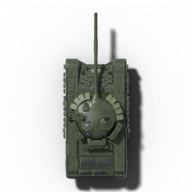
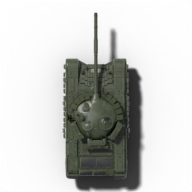
fix: paint the T-72B3's Kontakt-5 bricks olive like the rest of the hull
The bricks (mesh Object_6, material misc_a.5) have a pale texture and flat
tops that mirror the sky, so the shared olive tint left them grey. tint
overrides now take a per-material color and specular; the bricks get a
darker olive and no specular.

Refs #286

Claude-Session: https://claude.ai/code/session_013cBup2uc3dA6LrnARKwnbU

Changed region(s): [[0.3438, 0.4688, 0.4688, 0.625], [0.5312, 0.4688, 0.6562, 0.625]]

diff --git a/scripts/render-sprite.py b/scripts/render-sprite.py
@@ -12,8 +12,8 @@ Three PNGs per model in <out>/render-<id>/, all framed by the same camera so the
   <id>-turret.png  the turret (and barrels) alone, no shadow, for the game to rotate
 
 A model's optional `exclude` lists meshes to delete before rendering (e.g. add-on slat armour that hides the
-silhouette). `tint` multiplies the textured paint by `color` (minus materials named in `skip`), for a model
-painted in the wrong colour.
+silhouette). `tint` multiplies the textured paint by `color` (minus materials named in `skip`; `overrides` gives a
+material its own `color` and `specular`), for a model painted in the wrong colour.
 
 Setup:  python3 -m venv .venv-art && .venv-art/bin/pip install bpy==5.0.1
 Run:    .venv-art/bin/python scripts/render-sprite.py [--only <id>] [--out assets]
@@ -79,8 +79,13 @@ def tint_untextured(color: list[float]) -> None:
             bsdf.inputs["Base Color"].default_value = (*color, 1.0)
 
 
-def tint_paint(color: list[float], skip: list[str]) -> None:
-    """Multiply every textured base colour by `color` (a grey-painted model turned olive); `skip` keeps materials."""
+def tint_paint(color: list[float], skip: list[str], overrides: dict[str, dict]) -> None:
+    """Multiply every textured base colour by `color` (a grey-painted model turned olive).
+
+    `skip` keeps materials whose name starts with an entry. `overrides` gives a material (by name prefix) its own
+    `color` and, optionally, `specular` (Principled "Specular IOR Level"), for a part that renders lighter than
+    the rest: a pale texture, or flat tops mirroring the sky.
+    """
     for mat in bpy.data.materials:
         tree = mat.node_tree
         bsdf = tree.nodes.get("Principled BSDF") if tree else None
@@ -91,7 +96,10 @@ def tint_paint(color: list[float], skip: list[str]) -> None:
         mix.data_type = "RGBA"
         mix.blend_type = "MULTIPLY"
         mix.inputs["Factor"].default_value = 1.0
-        mix.inputs["B"].default_value = (*color, 1.0)
+        own = next((o for prefix, o in overrides.items() if mat.name.startswith(prefix)), {})
+        mix.inputs["B"].default_value = (*own.get("color", color), 1.0)
+        if "specular" in own:
+            bsdf.inputs["Specular IOR Level"].default_value = own["specular"]
         tree.links.new(link.from_socket, mix.inputs["A"])
         tree.links.new(mix.outputs["Result"], bsdf.inputs["Base Color"])
 
@@ -196,7 +204,7 @@ def render_model(cfg: dict, spec: dict, cache: Path, out: Path) -> None:
     for name in spec.get("exclude", []):
         bpy.data.objects.remove(bpy.data.objects[name], do_unlink=True)
     if "tint" in spec:
-        tint_paint(spec["tint"]["color"], spec["tint"].get("skip", []))
+        tint_paint(spec["tint"]["color"], spec["tint"].get("skip", []), spec["tint"].get("overrides", {}))
     if "untexturedColor" in spec:
         tint_untextured(spec["untexturedColor"])
     place_model(spec)
